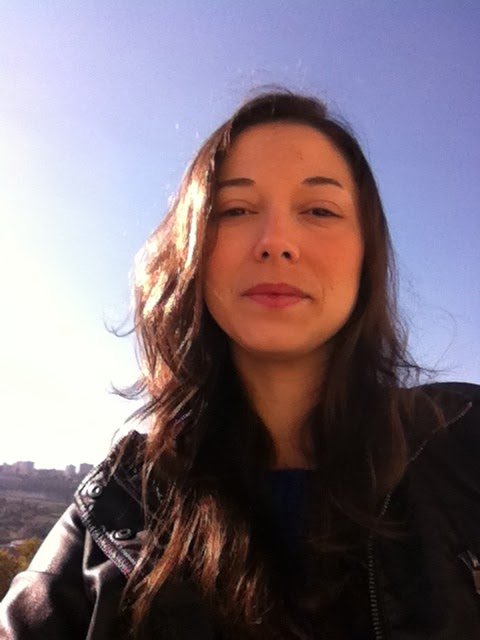
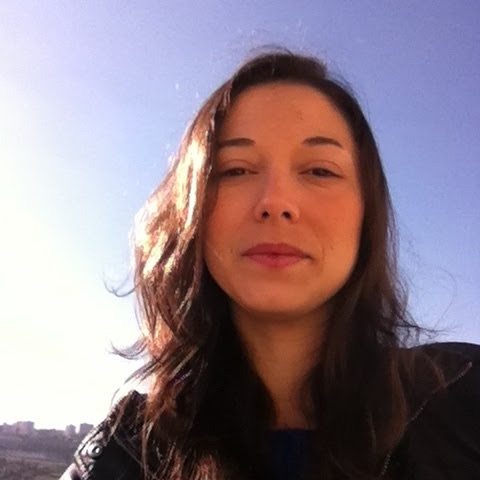
Make rounded images

diff --git a/wp-content/themes/html5blank-stable/scrolling-nav.css b/wp-content/themes/html5blank-stable/scrolling-nav.css
@@ -633,3 +633,7 @@ ul,li {
   filter: grayscale(100%) saturate(0%) brightness(70%) contrast(1000%);
 }
 
+.img-circle {
+    border-radius: 50px;
+}
+

diff --git a/wp-content/themes/html5blank-stable/index.php b/wp-content/themes/html5blank-stable/index.php
@@ -242,7 +242,7 @@
             </div>
             <div class="row normal-font left-aligned">
                 <div class="col-sm-2 col-md-2 col-lg-2 margin-bottom-40">
-                    <img class="h-centered" height="100" src="<?php echo get_bloginfo('template_url') ?>/img/toret.png" />
+                    <img class="img-circle h-centered" height="100" src="<?php echo get_bloginfo('template_url') ?>/img/toret.png" />
                     <div class="row some-minor-spacing"></div>
                     <div class="row bigger-font left-aligned">
                         <p class="h-centered">Javier Toret</p>
@@ -260,7 +260,7 @@
                     </div>
                 </div>
                 <div class="col-sm-2 col-md-2 col-lg-2 margin-bottom-40">
-                    <img class="h-centered" height="100" src="<?php echo get_bloginfo('template_url') ?>/img/thais.jpg" />
+                    <img class="img-circle h-centered" height="100" src="<?php echo get_bloginfo('template_url') ?>/img/thais.jpg" />
                     <div class="row some-minor-spacing"></div>
                     <div class="row bigger-font left-aligned">
                         <p class="h-centered">Thais Ruiz de Alda</p>
@@ -276,7 +276,7 @@
                     </div>
                 </div>
                 <div class="col-sm-2 col-md-2 col-lg-2 margin-bottom-40">
-                    <img class="h-centered" height="100" src="<?php echo get_bloginfo('template_url') ?>/img/hector.jpg" />
+                    <img class="img-circle h-centered" height="100" src="<?php echo get_bloginfo('template_url') ?>/img/hector.jpg" />
                     <div class="row some-minor-spacing"></div>
                     <div class="row bigger-font left-aligned">
                         <p class="h-centered">Hector Huerga</p>
@@ -292,7 +292,7 @@
                     </div>
                 </div>
                 <div class="col-sm-2 col-md-2 col-lg-2 margin-bottom-40">
-                    <img class="h-centered" height="100" src="<?php echo get_bloginfo('template_url') ?>/img/antonio.png" />
+                    <img class="img-circle h-centered" height="100" src="<?php echo get_bloginfo('template_url') ?>/img/antonio.png" />
                     <div class="row some-minor-spacing"></div>
                     <div class="row bigger-font left-aligned">
                         <p class="h-centered">Antonio Calleja</p>
@@ -307,7 +307,7 @@
                     </div>
                 </div>
                 <div class="col-sm-2 col-md-2 col-lg-2 margin-bottom-40">
-                    <img class="h-centered" height="100" src="<?php echo get_bloginfo('template_url') ?>/img/eunate.png" />
+                    <img class="img-circle h-centered" height="100" src="<?php echo get_bloginfo('template_url') ?>/img/eunate.png" />
                     <div class="row some-minor-spacing"></div>
                     <div class="row bigger-font left-aligned">
                         <p class="h-centered">Eunate Serrano</p>
@@ -322,7 +322,7 @@
                     </div>
                 </div>
                 <div class="col-sm-2 col-md-2 col-lg-2 margin-bottom-40">
-                    <img class="h-centered" height="100" src="<?php echo get_bloginfo('template_url') ?>/img/marcela.jpg" />
+                    <img class="img-circle h-centered" height="100" src="<?php echo get_bloginfo('template_url') ?>/img/marcela.jpg" />
                     <div class="row some-minor-spacing"></div>
                     <div class="row bigger-font left-aligned">
                         <p class="h-centered">Marcela Canavarro</p>
@@ -341,7 +341,7 @@
 
             <div class="row normal-font left-aligned">
                 <div class="col-sm-3 col-md-3 col-lg-3 margin-bottom-40">
-                    <img class="h-centered" height="100" src="<?php echo get_bloginfo('template_url') ?>/img/bruno.jpg" />
+                    <img class="img-circle h-centered" height="100" src="<?php echo get_bloginfo('template_url') ?>/img/bruno.jpg" />
                     <div class="row some-minor-spacing"></div>
                     <div class="row bigger-font left-aligned">
                         <p class="h-centered">Bruno Sokolowicz</p>
@@ -356,7 +356,7 @@
                     </div>
                 </div>
                 <div class="col-sm-3 col-md-3 col-lg-3 margin-bottom-40">
-                    <img class="h-centered" height="100" src="<?php echo get_bloginfo('template_url') ?>/img/dani.jpg" />
+                    <img class="img-circle h-centered" height="100" src="<?php echo get_bloginfo('template_url') ?>/img/dani.jpg" />
                     <div class="row some-minor-spacing"></div>
                     <div class="row bigger-font left-aligned">
                         <p class="h-centered">Dani Ortiz</p>
@@ -372,7 +372,7 @@
                     </div>
                 </div>
                 <div class="col-sm-3 col-md-3 col-lg-3 margin-bottom-40">
-                    <img class="h-centered" height="100" src="<?php echo get_bloginfo('template_url') ?>/img/sergio.png" />
+                    <img class="img-circle h-centered" height="100" src="<?php echo get_bloginfo('template_url') ?>/img/sergio.png" />
                     <div class="row some-minor-spacing"></div>
                     <div class="row bigger-font left-aligned">
                         <p class="h-centered">Sergio Alvarez</p>
@@ -389,7 +389,7 @@
                     </div>
                 </div>
                 <div class="col-sm-3 col-md-3 col-lg-3 margin-bottom-40">
-                    <img class="h-centered" height="100" src="<?php echo get_bloginfo('template_url') ?>/img/pinar.jpg" />
+                    <img class="img-circle h-centered" height="100" src="<?php echo get_bloginfo('template_url') ?>/img/pinar.jpg" />
                     <div class="row some-minor-spacing"></div>
                     <div class="row bigger-font left-aligned">
                         <p class="h-centered">Pinar Wennerberg</p>
@@ -409,7 +409,7 @@
 
             <div class="row normal-font left-aligned">
                 <div class="col-sm-3 col-md-3 col-lg-3 margin-bottom-40">
-                    <img class="h-centered" height="100" src="<?php echo get_bloginfo('template_url') ?>/img/stelios.jpg" />
+                    <img class="img-circle h-centered" height="100" src="<?php echo get_bloginfo('template_url') ?>/img/stelios.jpg" />
                     <div class="row some-minor-spacing"></div>
                     <div class="row bigger-font left-aligned">
                         <p class="h-centered">Stelios Modes</p>
@@ -425,7 +425,7 @@
                     </div>
                 </div>
                 <div class="col-sm-3 col-md-3 col-lg-3 margin-bottom-40">
-                    <img class="h-centered" height="100" src="<?php echo get_bloginfo('template_url') ?>/img/lliure.jpg" />
+                    <img class="img-circle h-centered" height="100" src="<?php echo get_bloginfo('template_url') ?>/img/lliure.jpg" />
                     <div class="row some-minor-spacing"></div>
                     <div class="row bigger-font left-aligned">
                         <p class="h-centered">Lliure Hilla Ariza</p>
@@ -442,7 +442,7 @@
                     </div>
                 </div>
                 <div class="col-sm-3 col-md-3 col-lg-3 margin-bottom-40">
-                    <img class="h-centered" height="100" src="<?php echo get_bloginfo('template_url') ?>/img/ana.jpg" />
+                    <img class="img-circle h-centered" height="100" src="<?php echo get_bloginfo('template_url') ?>/img/ana.jpg" />
                     <div class="row some-minor-spacing"></div>
                     <div class="row bigger-font left-aligned">
                         <p class="h-centered">Ana Bastero</p>
@@ -458,7 +458,7 @@
                     </div>
                 </div>
                 <div class="col-sm-3 col-md-3 col-lg-3 margin-bottom-40">
-                    <img class="h-centered" height="100" src="<?php echo get_bloginfo('template_url') ?>/img/ste.png" />
+                    <img class="img-circle h-centered" height="100" src="<?php echo get_bloginfo('template_url') ?>/img/ste.png" />
                     <div class="row some-minor-spacing"></div>
                     <div class="row bigger-font left-aligned">
                         <p class="h-centered">Stephen Cowley</p>
